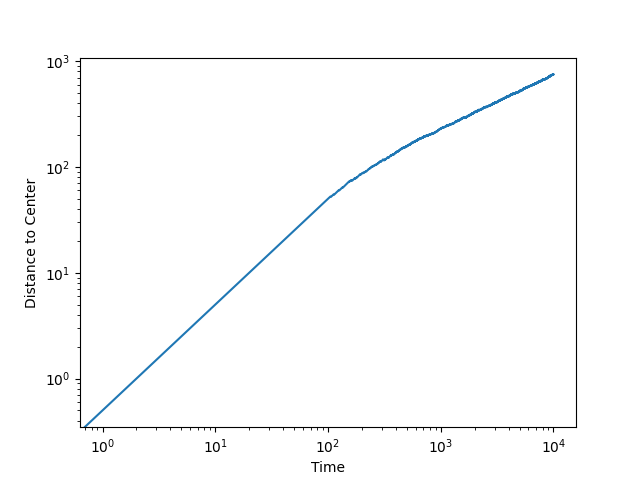
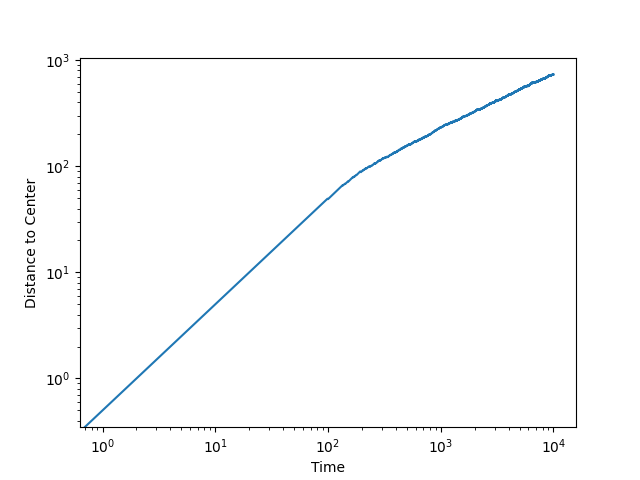
Modified recurrance relation to only calculate one time

diff --git a/recurrenceRelation/recurrance.cpp b/recurrenceRelation/recurrance.cpp
@@ -42,11 +42,12 @@ template <> struct type_caster<RealType> : npy_scalar_caster<RealType> {
 } // namespace detail
 } // namespace pybind11
 
-Recurrance::Recurrance(const double _beta, const unsigned long int _tMax)
+
+Recurrance::Recurrance(const double _beta)
 {
   beta = _beta;
-  tMax = _tMax;
-  zB.resize(tMax);
+  t = 0;
+  zB.push_back(1.0); // Initialize so that zB(n=0, t=0) = 1
 
   if (_beta != 0) {
     boost::random::beta_distribution<>::param_type params(_beta, _beta);
@@ -77,43 +78,42 @@ double Recurrance::generateBeta()
   }
 }
 
-void Recurrance::makeRec()
+void Recurrance::iterateTimeStep()
 {
-  for (unsigned long int n = 0; n < tMax; n++) {
-    zB.at(n) = std::vector<RealType>(tMax); // Number of rows set to tmax
-    for (unsigned long int t = n; t < tMax; t++) {
-      double doublebias =
-          generateBeta(); // Some random beta distributed variable
-      RealType bias = RealType(doublebias);
-      if (n == t) {
-        zB.at(n).at(t) = 1;
-      }
-      else if (n == 0) {
-        zB.at(n).at(t) = zB.at(n).at(t - 1) * bias;
-      }
-      else {
-        zB.at(n).at(t) =
-            zB.at(n).at(t - 1) * bias + zB.at(n - 1).at(t - 1) * (1 - bias);
-      }
+  std::vector<RealType> zB_next(zB.size() + 1); // Initialize next zb(n, t+1) to size zb(n, t-1) + 1
+  for (unsigned long int n = 0; n < zB_next.size(); n++){
+    if (n == 0){
+      zB_next[n] = 1.0; // Need zB(n=0, t) = 0
+    }
+    else if (n == zB_next.size() - 1){
+      double double_beta = generateBeta();
+      RealType beta = RealType(double_beta);
+      zB_next[n] = beta * zB[n-1];
+    }
+    else{
+      double double_beta = generateBeta();
+      RealType beta = RealType(double_beta);
+      zB_next[n] = beta * zB[n-1] + (1.0 - beta) * zB[n];
     }
   }
+  zB = zB_next;
+  t += 1;
 }
 
-std::vector<unsigned long int> Recurrance::findQuintile(RealType N)
+unsigned long int Recurrance::findQuintile(RealType N)
 {
-  std::vector<unsigned long int> quintile(tMax);
-  for (unsigned long int t = 0; t < tMax; t++) {
-    for (unsigned long int n = 0; n < tMax; n++) {
-      if (zB[n][t] > 1. / N) {
-        quintile[t] = t - 2 * n + 2;
-        break;
-      }
+  unsigned long int quintile;
+  for (unsigned long int n = (zB.size()-1); n >= 0; n--){
+    if (zB[n] > 1.0 / N){
+      n = (zB.size()-1) - n;
+      quintile = t - 2 * n + 2;
+      break;
     }
   }
   return quintile;
 }
 
-std::vector<std::vector<unsigned long int> > Recurrance::findQuintiles(
+std::vector<unsigned long int> Recurrance::findQuintiles(
   std::vector<RealType> Ns)
 {
   // Sort incoming Ns b/c we need them to be in decreasing order for algorithm
@@ -121,31 +121,22 @@ std::vector<std::vector<unsigned long int> > Recurrance::findQuintiles(
   std::sort(Ns.begin(), Ns.end(), std::greater<RealType>());
 
   // Initialize to have same number of vectors as in Ns
-  std::vector<std::vector<unsigned long int> > quintiles(Ns.size());
+  std::vector<unsigned long int> quintiles(Ns.size());
+  unsigned long int Npos = 0;
+  for (unsigned long int n = (zB.size()-1); n >= 0; n--){
+    while(zB[n] > 1.0 / Ns[Npos]){
+      unsigned long int nval = (zB.size()-1) - n;
+      quintiles[Npos] = t - 2 * nval + 2;
+      Npos += 1;
 
-  // Initialize all vectors to have size tMax
-  for (unsigned long int col = 0; col < Ns.size(); col++){
-    quintiles[col] = std::vector<unsigned long int>(tMax);
-  }
-  for (unsigned long int t=0; t < tMax; t++){
-    unsigned int pos = 0;
-    for (unsigned long int n = 0; n < tMax; n++){
-      // Could have multiple Ns with the same quintiles so need to loop through
-      // each one
-      while (zB[n][t] > 1. / Ns[pos]){
-        quintiles[pos][t] = t - 2 * n + 2;
-        pos += 1;
-
-        // Break while loop if past last position
-        if (pos == Ns.size()){
-          break;
-        }
-      }
-
-      // Also need to break for loop if in last position b/c we are done searching
-      if (pos == Ns.size()){
+      //Break while loop if past last position
+      if (Npos == Ns.size()){
         break;
       }
+    }
+    // Also need to break for loop if in last position b/c we are done searching
+    if (Npos == Ns.size()){
+      break;
     }
   }
   return quintiles;
@@ -155,14 +146,12 @@ PYBIND11_MODULE(recurrance, m)
 {
   m.doc() = "Diffusion recurrance relation";
   py::class_<Recurrance>(m, "Recurrance")
-      .def(py::init<const double, const unsigned long int>(),
-           py::arg("beta"),
-           py::arg("tMax"))
+      .def(py::init<const double>(), py::arg("beta"))
       .def("getBeta", &Recurrance::getBeta)
       .def("getzB", &Recurrance::getzB)
       .def("setBetaSeed", &Recurrance::setBetaSeed, py::arg("seed"))
-      .def("gettMax", &Recurrance::gettMax)
-      .def("makeRec", &Recurrance::makeRec)
+      .def("getTime", &Recurrance::getTime)
+      .def("iterateTimeStep", &Recurrance::iterateTimeStep)
       .def("findQuintile", &Recurrance::findQuintile, py::arg("N"))
       .def("findQuintiles", &Recurrance::findQuintiles, py::arg("Ns"));
 }

diff --git a/recurrenceRelation/pyrecurrence.py b/recurrenceRelation/pyrecurrence.py
@@ -1,0 +1,115 @@
+import recurrance
+import numpy as np
+import npquad
+
+class Recurrance(recurrance.Recurrance):
+    """
+    Create a class that models the recurrance relation outlined in the BC
+    model paper.
+
+    Attributes
+    ----------
+    zB : numpy array (dtype of np.quad)
+        The current recurrance vector zB(n, t)
+
+    time : int
+        Current time in the recurrance relation
+
+    beta : float
+        Value of beta used in the recurrance relation
+    """
+
+    def __str__(self):
+        return f"Recurrance(beta={self.beta}, time={self.time})"
+
+    def __repr__(self):
+        return self.__str__()
+
+    @property
+    def beta(self):
+        return self.getBeta()
+
+    @property
+    def zB(self):
+        return np.array(self.getzB(), dtype=np.quad)
+
+    @property
+    def time(self):
+        return self.getTime()
+
+    def iterateTimeStep(self):
+        """
+        Evolve the recurrance relation zB forward one step in time.
+        """
+
+        super().iterateTimeStep()
+
+    def evolveToTime(self, time):
+        """
+        Evolve the system to a time t.
+
+        Parameters
+        ----------
+        time : int
+            Time to iterate the system forward to
+        """
+
+        while self.time < time:
+            self.iterateTimeStep()
+
+    def evolveTimesteps(self, num):
+        """
+        Evolve the system forward a number of timesteps.
+
+        Parameters
+        ----------
+        num : int
+            Number of timesteps to evolve the system
+        """
+
+        for _ in range(num):
+            self.iterateTimeStep()
+
+    def findQuintile(self, N):
+        """
+        Find the corresponding quintile.
+
+        Parameters
+        ----------
+        N : np.quad
+            Nth quartile to measure
+
+        Returns
+        -------
+        int
+            Position of Nth quartile
+        """
+
+        return super().findQuintile(N)
+
+    def findQuintiles(self, Ns, descending=False):
+        """
+        Find the corresponding quintiles. Should be faster than a list compression
+        over findQuntile b/c it does it in one loop.
+
+        Parameters
+        ----------
+        Ns : numpy array (dtype np.quad)
+            Nth quartiles to measure
+
+        descending : bool
+            Whether or not the incoming Ns are in descending or ascending order.
+            If they are not in descending order we flip the output quintiles.
+
+        Returns
+        -------
+        numpy array (dtype ints)
+            Position of Nth quartiles
+        """
+
+        if descending:
+            return np.array(super().findQuintiles(Ns))
+        else:
+            returnVals = super().findQuintiles(Ns)
+            returnVals.reverse()
+            return np.array(returnVals)

diff --git a/recurrenceRelation/recurrance.hpp b/recurrenceRelation/recurrance.hpp
@@ -19,8 +19,8 @@ typedef boost::multiprecision::float128 RealType;
 
 class Recurrance {
 private:
-  std::vector<std::vector<RealType>> zB;
-  unsigned long int tMax;
+  std::vector<RealType> zB;
+  unsigned long int t;
   double beta;
 
   // It would be nice if this could be a generic distribution as:
@@ -36,23 +36,23 @@ private:
   double generateBeta();
 
 public:
-  Recurrance(const double _beta, const unsigned long int _tMax);
+  Recurrance(const double _beta);
   ~Recurrance(){};
 
   double getBeta() { return beta; };
 
-  std::vector<std::vector<RealType>> getzB() { return zB; };
+  std::vector<RealType> getzB() { return zB; };
 
   void setBetaSeed(const unsigned int seed) { gen.seed(seed); };
 
-  unsigned long int gettMax() { return tMax; };
+  unsigned long int getTime() { return t; };
 
   // Functions that do things
-  void makeRec();
+  void iterateTimeStep();
 
-  std::vector<unsigned long int> findQuintile(RealType N);
+  unsigned long int findQuintile(RealType N);
 
-  std::vector<std::vector<unsigned long int> > findQuintiles(std::vector<RealType>);
+  std::vector<unsigned long int> findQuintiles(std::vector<RealType> Ns);
 };
 
 #endif /* RECURRANCE_HPP_ */

diff --git a/recurrenceRelationEric/recurrenceRelation.py b/recurrenceRelationEric/recurrenceRelation.py
@@ -9,7 +9,7 @@ def makeRec(tMax):
     zB = np.zeros((tMax,tMax))
     for n in range(tMax):
         for t in range(n,tMax):
-            bias = np.random.rand()
+            bias = 0.5
             if n == t:
                 zB[n,t] = 1
             elif n == 0:
@@ -48,4 +48,6 @@ def findQuintile(zB,N):
     quintile = np.zeros(tMax)
     for t in range(tMax):
         quintile[t] = t - 2*np.where(zB[:,t] > (1/N))[0][0] + 2
+        n = np.where(zB[:, t] > (1/N))[0][0]
+        print("n=", n, " t=", t)
     return quintile

diff --git a/exp/recurrance/testRecurrance.py b/exp/recurrance/testRecurrance.py
@@ -8,10 +8,17 @@ import npquad
 import matplotlib
 matplotlib.use("Agg")
 from matplotlib import pyplot as plt
+import time
 
-rec = Recurrsion(1, 1_000)
+start = time.time()
+tmax = 100_000 # Requires about 160GB of memory to work :(
+beta = 1
+rec = Recurrsion(beta, tmax)
 rec.makeRec()
+print('got here')
+quintiles = [np.quad(f'1e{i}') for i in range(100, 4600, 100)]
 q = rec.findQuintiles([10, 100])
+print(time.time() - start)
 
 fig, ax = plt.subplots()
 ax.set_xlabel("Time")

diff --git a/recurrenceRelation/test.py b/recurrenceRelation/test.py
@@ -1,0 +1,11 @@
+import pyrecurrence
+import numpy as np
+import npquad
+
+r = pyrecurrence.Recurrance(beta=np.inf)
+for _ in range(5):
+    r.iterateTimeStep()
+    q0 = r.findQuintile(5)
+    q1 = r.findQuintile(10)
+    q = r.findQuintiles([5, 10])
+    print(q0, q1, q)

diff --git a/examples/MaxEdges.py b/examples/MaxEdges.py
@@ -19,8 +19,6 @@ d = diff.Diffusion(
     N,
     beta=beta,
     occupancySize=num_of_timesteps,
-    smallCutoff=0,
-    largeCutoff=0,
     probDistFlag=False,
 )
 

diff --git a/recurrenceRelationEric/test.py b/recurrenceRelationEric/test.py
@@ -1,0 +1,6 @@
+from recurrenceRelation import makeRec, findQuintile
+
+zb = makeRec(6)
+print(zb)
+q = findQuintile(zb, 10)
+print(q)
